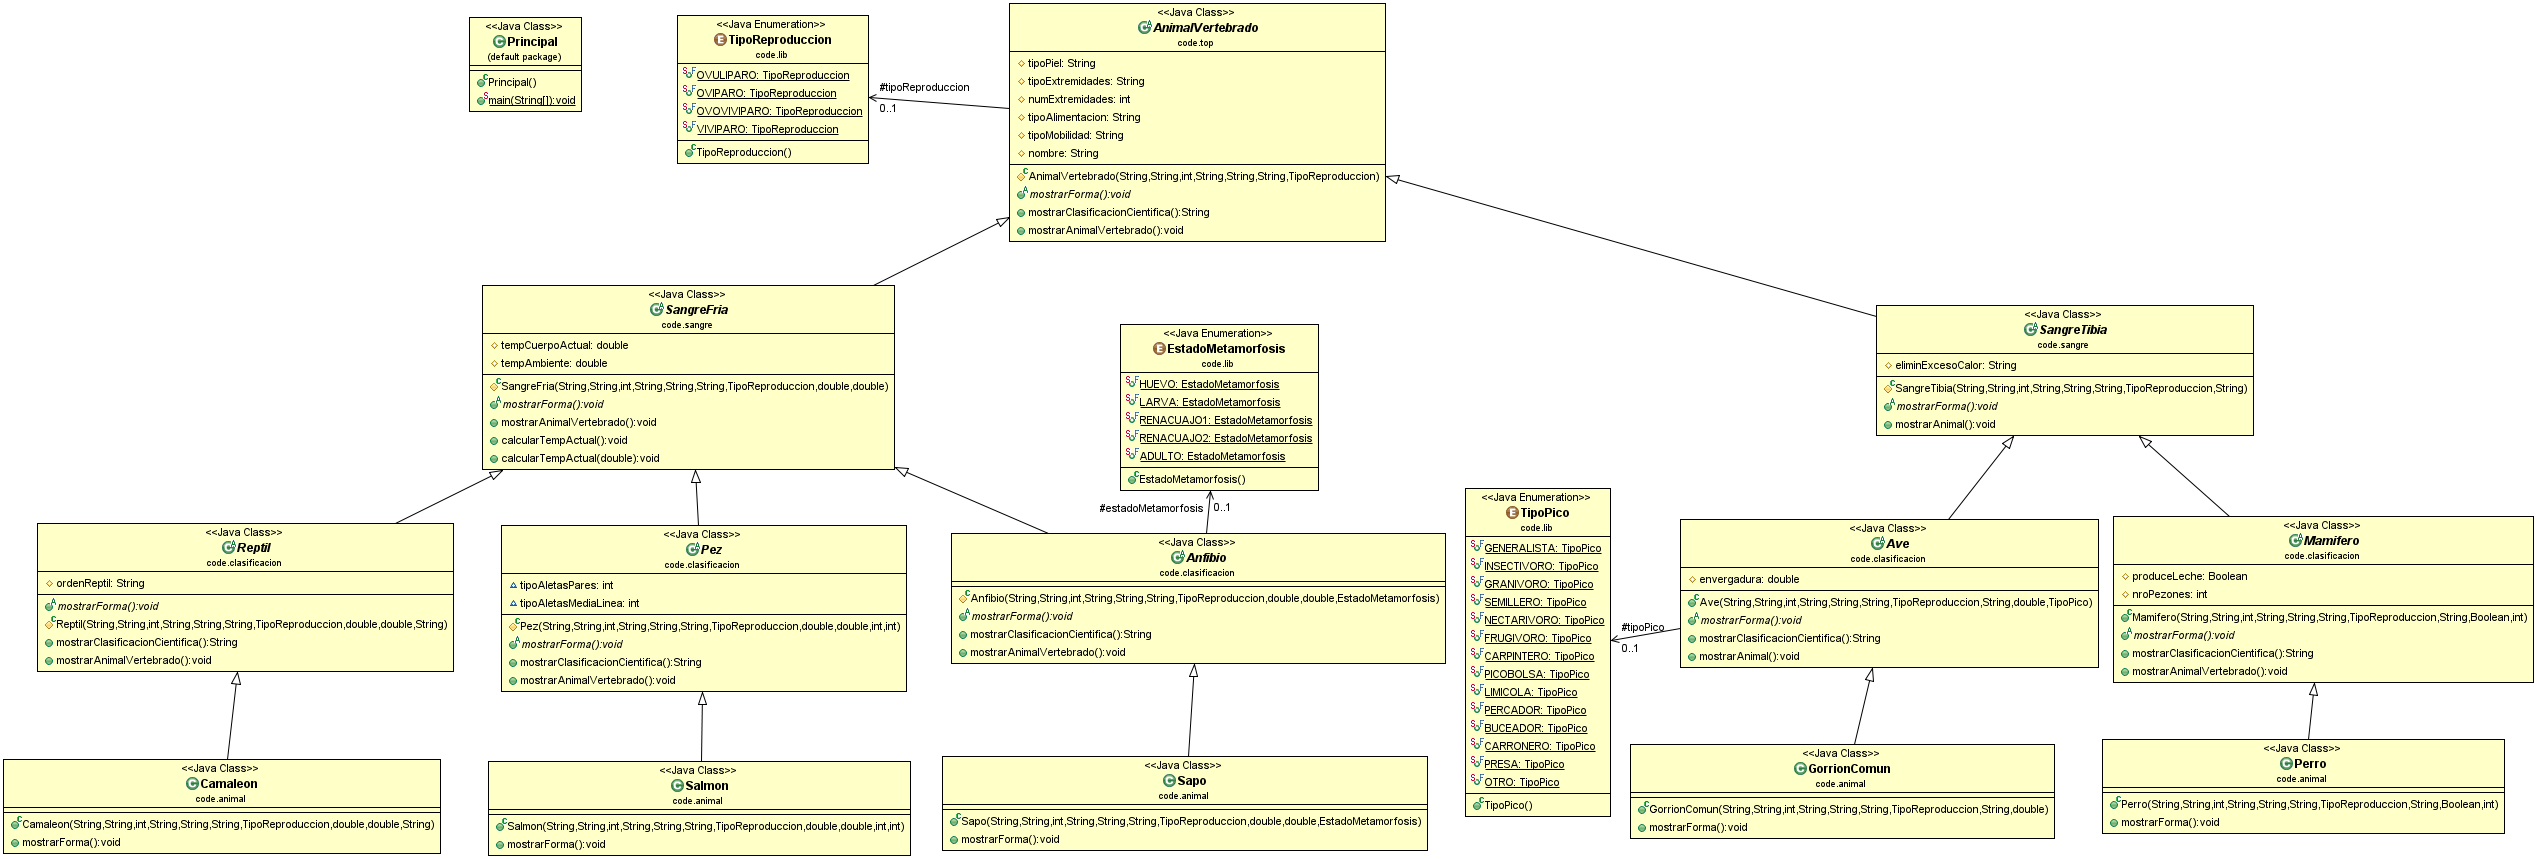
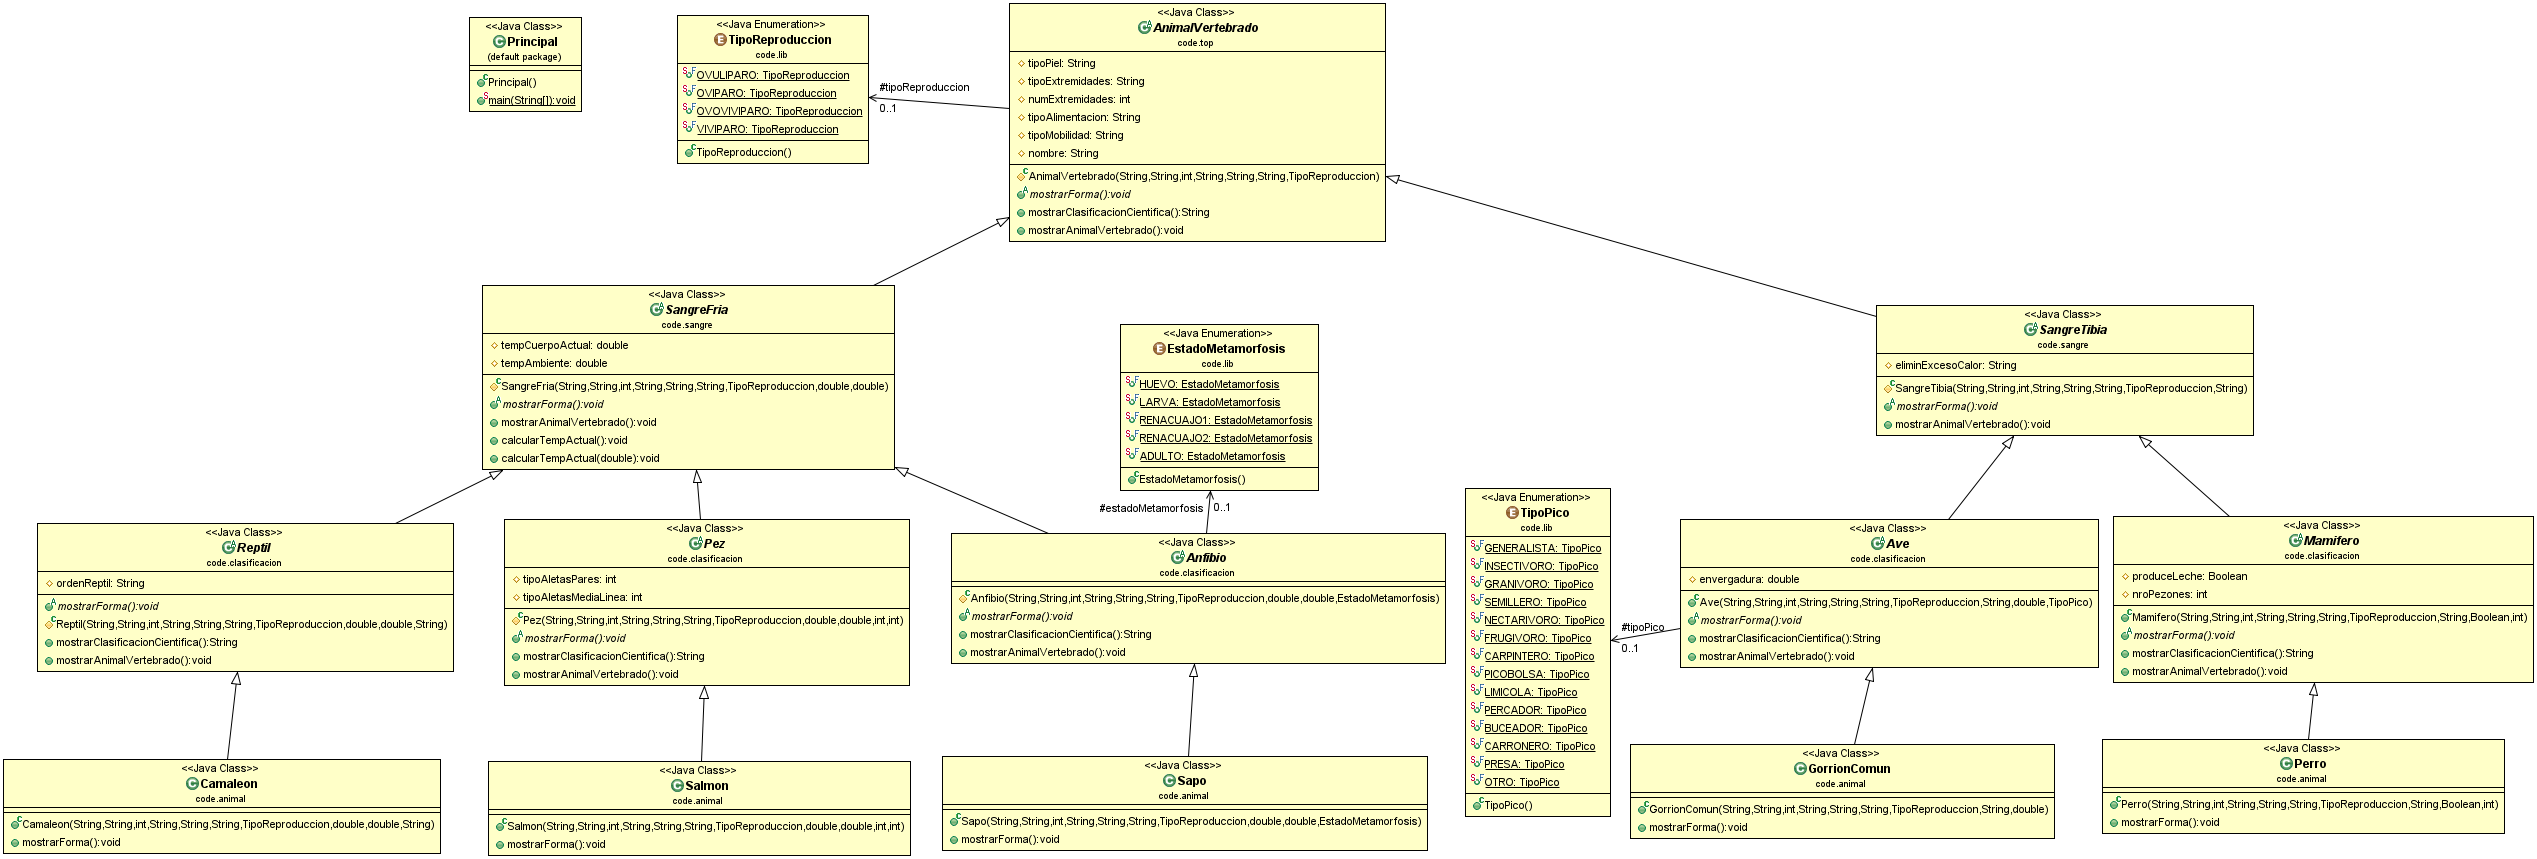
fixes Pamela and class diagram Done

diff --git a/src/code/animal/Salmon.java b/src/code/animal/Salmon.java
@@ -10,8 +10,8 @@ public class Salmon extends Pez {
 			String nombre, TipoReproduccion tipoReproduccion, double tempCuerpoActual,
 			double tempAmbiente, int tipoAletasPares,int tipoAletasMediaLinea) {
 		super(tipoPiel,tipoExtremidades,numExtremidades, tipoAlimentacion,tipoMobilidad,
-				nombre,tipoReproduccion,
-				tempCuerpoActual, tempAmbiente, tipoAletasPares, tipoAletasMediaLinea);
+			nombre,tipoReproduccion, tempCuerpoActual, tempAmbiente, tipoAletasPares, 
+			tipoAletasMediaLinea);
 	}
 	
 	@Override
@@ -26,5 +26,4 @@ public class Salmon extends Pez {
 	    System.out.println("       ',))))))))\\/)))))' \\{");
 	    System.out.println("         '*O))))))))O*'");			
 	}
-
 }

diff --git a/src/Principal.java b/src/Principal.java
@@ -8,9 +8,9 @@ public class Principal {
 
 	public static void main(String[] args) {
 		
-		AnimalVertebrado frog = new Sapo("Permiable por agua, lycra","Piernas",4,
-				"Carnivoro","Caminar, nadar, saltar","Sapo",
-				TipoReproduccion.OVULIPARO,37.05,44.88, EstadoMetamorfosis.ADULTO);	
+		AnimalVertebrado frog = new Sapo("Permiable por agua, lycra","Piernas",4, "Carnivoro",
+				"Caminar, nadar, saltar","Sapo", TipoReproduccion.OVULIPARO,37.05,44.88,
+				EstadoMetamorfosis.ADULTO);	
 		System.out.println(frog.mostrarClasificacionCientifica());
 		System.out.println("\n");
 		frog.mostrarAnimalVertebrado();

diff --git a/src/code/animal/Sapo.java b/src/code/animal/Sapo.java
@@ -22,10 +22,6 @@ public class Sapo extends Anfibio {
 		System.out.println("    :     / \\/ |   | \\/ \\   `.");
 		System.out.println("~    `___ |_\\__|___|__/_|     `.     ~");
 		System.out.println("         /|\\  /|\\ /|\\  /|\\      ;");
-		System.out.println("  .____.o o oo o o o oo o o      ;");
-		System.out.println("~  :                            ;");
-		System.out.println("  :__                       __.");
-		System.out.println("~       :_____         _____...");				
+		System.out.println("  .____.o o oo o o o oo o o      ;");			
 	}
-
 }

diff --git a/src/code/clasificacion/Ave.java b/src/code/clasificacion/Ave.java
@@ -20,12 +20,13 @@ public abstract class Ave extends SangreTibia {
 	}
 	// metodos	
 	abstract public void mostrarForma();
+	
 	public String mostrarClasificacionCientifica(){
 		return (super.mostrarClasificacionCientifica() + "/AVE"); 
 	}
 	
-	public void mostrarAnimal() {
-		super.mostrarAnimal();
+	public void mostrarAnimalVertebrado() {
+		super.mostrarAnimalVertebrado();
 		System.out.println("\tENVERGADURA DE AVE: " + envergadura + " cm");
 		System.out.println("\tTIPO DE PICO DE AVE: " + tipoPico.toString());
 	}

diff --git a/src/code/sangre/SangreTibia.java b/src/code/sangre/SangreTibia.java
@@ -1,5 +1,4 @@
 package code.sangre;
-
 import code.top.AnimalVertebrado;
 import code.lib.TipoReproduccion;
 
@@ -19,7 +18,7 @@ public abstract class SangreTibia extends AnimalVertebrado {
 	// metodos
 	abstract public void mostrarForma();	
 	
-	public void mostrarAnimal() {
+	public void mostrarAnimalVertebrado() {
 		super.mostrarAnimalVertebrado();
 		System.out.println("\tELIMINA EXCESO DE CALOR CORPORAL POR: " + eliminExcesoCalor);
 	}

diff --git a/src/code/clasificacion/Pez.java b/src/code/clasificacion/Pez.java
@@ -1,13 +1,12 @@
 package code.clasificacion;
-
 import code.sangre.*;
 import code.lib.TipoReproduccion;
 
 public abstract class Pez extends SangreFria {
 
 	// atributos
-	int tipoAletasPares;
-	int tipoAletasMediaLinea; // aletas de media linea
+	protected int tipoAletasPares;
+	protected int tipoAletasMediaLinea; // aletas de media linea
 	
 	// metodos
 	protected Pez(String tipoPiel, String tipoExtremidades,

diff --git a/src/code/animal/Perro.java b/src/code/animal/Perro.java
@@ -67,5 +67,4 @@ public class Perro extends Mamifero {
 		System.out.println("_______$$___$___$__$________________________$$_$__$$__$$__$");
 		System.out.println("_________$$$$$$$$$$__________________________$$_$_$$$$$$$$");
 	}
-
 }

diff --git a/src/code/top/AnimalVertebrado.java b/src/code/top/AnimalVertebrado.java
@@ -1,5 +1,4 @@
 package code.top;
-
 import code.lib.TipoReproduccion;
 
 public abstract class AnimalVertebrado {

diff --git a/src/code/sangre/SangreFria.java b/src/code/sangre/SangreFria.java
@@ -1,5 +1,4 @@
 package code.sangre;
-
 import code.top.AnimalVertebrado;
 import code.lib.TipoReproduccion;
 

diff --git a/src/code/clasificacion/Reptil.java b/src/code/clasificacion/Reptil.java
@@ -1,5 +1,4 @@
 package code.clasificacion;
-
 import code.sangre.*;
 import code.lib.TipoReproduccion;
 
